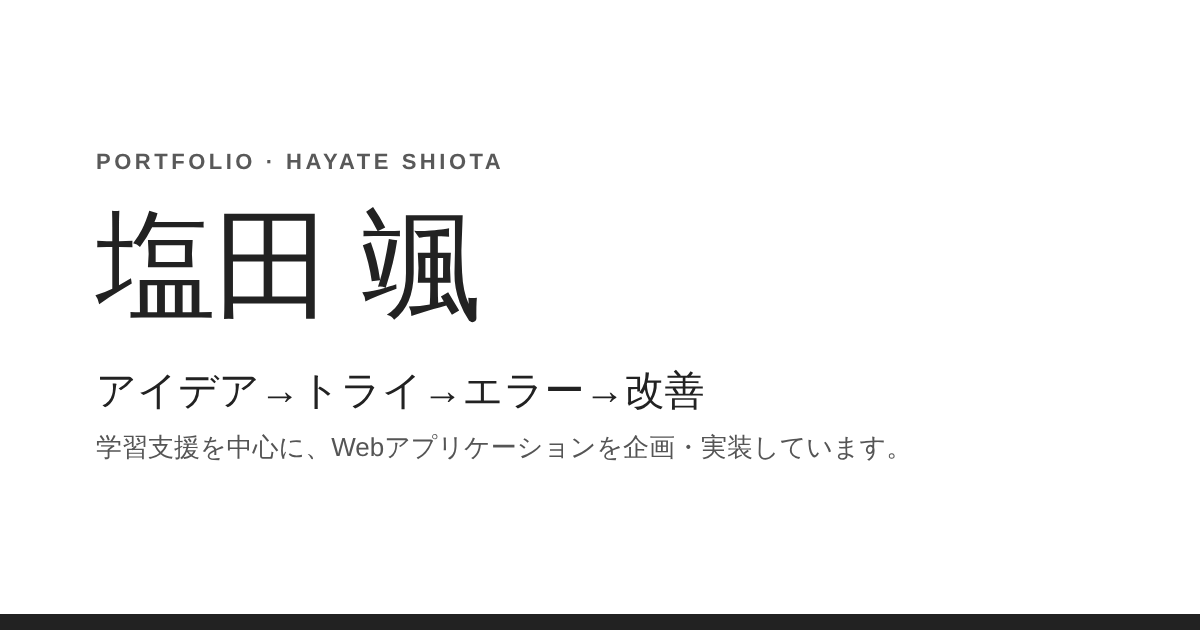
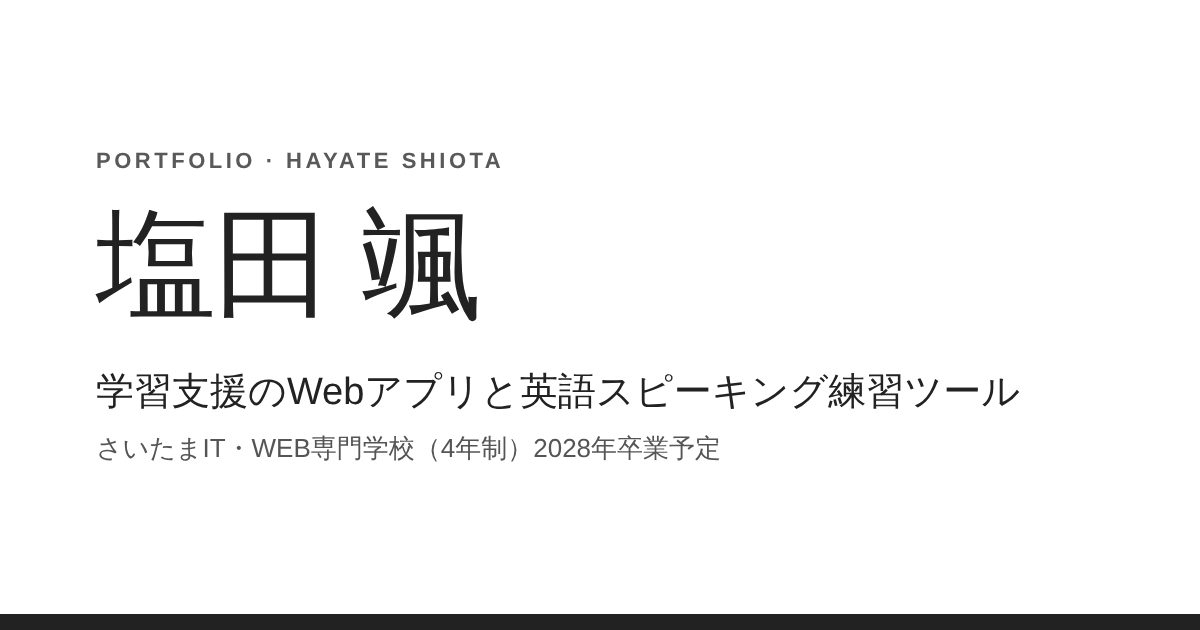
Remove the hero tagline and redraw the OGP image without it
- Drop the アイデア→トライ→エラー→改善 line from the hero and its unused style
- OGP image now shows the site's focus and school year instead of the tagline
- Bump og:image to ?v=2 so link-preview caches fetch the new image

Claude-Session: https://claude.ai/code/session_01Aczj2dVFLpnmK78FWsLQhD

diff --git a/index.html b/index.html
@@ -20,7 +20,7 @@
   <meta property="og:title" content="塩田 颯｜学習支援のWebアプリと英語スピーキング練習ツール">
   <meta property="og:description" content="学習を仕組みでよりよくするWebアプリを作っています。AIが英語を添削する練習ツール「Elevator Talk」や、動画学習の管理システムを公開中。さいたまIT・WEB専門学校（4年制）2028年卒業予定。">
   <meta property="og:url" content="https://salty-en-jp.github.io/Portfolio-website/">
-  <meta property="og:image" content="https://salty-en-jp.github.io/Portfolio-website/ogp.png">
+  <meta property="og:image" content="https://salty-en-jp.github.io/Portfolio-website/ogp.png?v=2">
   <meta property="og:image:width" content="1200">
   <meta property="og:image:height" content="630">
   <meta property="og:image:alt" content="塩田 颯のポートフォリオ">
@@ -49,7 +49,6 @@
       <div class="container hero-inner">
         <p class="eyebrow">PORTFOLIO</p>
         <h1>塩田 颯</h1>
-        <p class="lead">アイデア→トライ→エラー→改善</p>
         <p class="hero-text">
           さいたまIT・WEB専門学校（4年制）在学中／2028年卒業予定。<br>学習支援を中心に、Webアプリケーションやゲームなど<br>興味を持ったものを企画・実装しています。
         </p>

diff --git a/style.css b/style.css
@@ -111,14 +111,8 @@ nav a:hover {
   line-height: 1.15;
 }
 
-.lead {
-  margin: 30px 0 8px;
-  font-size: clamp(21px, 3vw, 30px);
-  font-weight: 500;
-}
-
 .hero-text {
-  margin: 18px 0 28px;
+  margin: 28px 0 28px;
   color: #666;
   font-size: 15px;
 }
